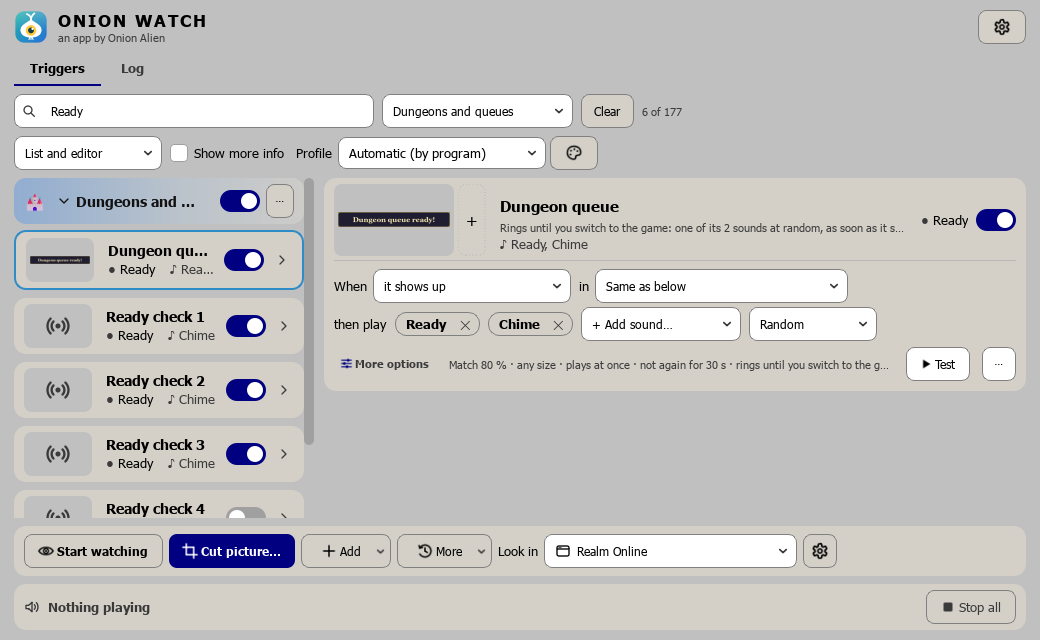
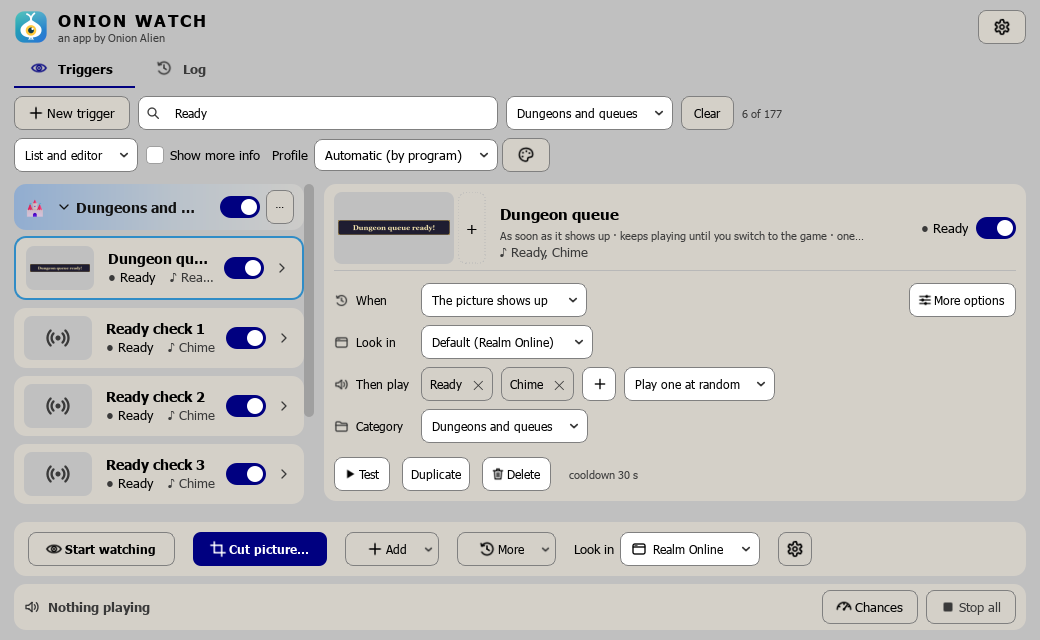
Docs: fresh README and website pictures from current main
The pictures showed the old trigger editor. Re-rendered with scripts/docs.py.
The cut-picture and health-bar dialogs now have a taller minimum (wrapped
hint text), which left grey bands around the game picture at 900 wide:
screenshots.py widens them until the picture fills its space.

diff --git a/docs/index.html b/docs/index.html
@@ -7,7 +7,7 @@
 <meta name="description" content="Free Windows app that plays a sound when something shows up in your game: a rare spawn, a queue pop, a whisper, YOU DIED. It watches the game's own window, even while you're alt-tabbed away, and never touches the game.">
 <meta property="og:title" content="Onion Watch: a sound when your game needs you">
 <meta property="og:description" content="Plays a sound when a rare spawn, a queue pop or a whisper shows up in your game, even while you're alt-tabbed. Free, Windows, it only looks.">
-<meta property="og:image" content="https://onion-alien.github.io/onion-watch/art/social-preview.png?v=2ae39d7e">
+<meta property="og:image" content="https://onion-alien.github.io/onion-watch/art/social-preview.png?v=e6040463">
 <meta property="og:type" content="website">
 <meta name="twitter:card" content="summary_large_image">
 <link rel="canonical" href="https://onion-alien.github.io/onion-watch/">
@@ -70,7 +70,7 @@
       <a href="https://www.virustotal.com/gui/file/08de1d443d172d34d1102800208f2cb0123223dac3adba19784f68c7414afb87">VirusTotal: 67 of 67 clean</a> ·
       <a href="https://github.com/Onion-Alien/onion-watch/releases/latest">what's new</a></p>
     <!-- /release -->
-    <img class="hero" src="screenshots/main.png?v=9ef68566" width="900" height="820"
+    <img class="hero" src="screenshots/main.png?v=0aa481d7" width="900" height="820"
          alt="Onion Watch watching a game, one trigger open">
   </header>
 
@@ -87,9 +87,9 @@
   <h2>A closer look</h2>
   <div class="grid shots">
     <figure><img src="screenshots/window-picker.png?v=c1530a72" alt="Picking the windows to watch" loading="lazy"><figcaption>Pick the windows, or every copy of a game</figcaption></figure>
-    <figure><img src="screenshots/cut-picture.png?v=e74729da" alt="Cutting a picture out of the game" loading="lazy"><figcaption>Cut out the thing to watch for</figcaption></figure>
-    <figure><img src="screenshots/health-bar.png?v=4ee7c359" alt="Picking a health bar and its colour" loading="lazy"><figcaption>Or point it at a health bar</figcaption></figure>
-    <figure><img src="screenshots/categories.png?v=a76fe151" alt="Categories and profiles" loading="lazy"><figcaption>Hundreds of triggers in categories and profiles</figcaption></figure>
+    <figure><img src="screenshots/cut-picture.png?v=f1990b26" alt="Cutting a picture out of the game" loading="lazy"><figcaption>Cut out the thing to watch for</figcaption></figure>
+    <figure><img src="screenshots/health-bar.png?v=21bb09ba" alt="Picking a health bar and its colour" loading="lazy"><figcaption>Or point it at a health bar</figcaption></figure>
+    <figure><img src="screenshots/categories.png?v=5544963f" alt="Categories and profiles" loading="lazy"><figcaption>Hundreds of triggers in categories and profiles</figcaption></figure>
   </div>
 
   <h2>Get started</h2>

diff --git a/scripts/screenshots.py b/scripts/screenshots.py
@@ -50,6 +50,18 @@ sounddevice.OutputStream = _Mute
 HP_BAR = QRectF(78, 32, 190, 14)     # the player's health bar in game_scene
 
 
+
+def fill_view(dlg, app):
+    """Widen a cutting dialog until its picture fills the view: the dialog has a
+    minimum height, and a 900-wide one would show grey bands above and below."""
+    dlg.resize(900, 1)
+    app.processEvents()
+    v = dlg.view
+    fit = v.img.size().scaled(v.size(), Qt.KeepAspectRatio)
+    extra = round((v.height() - fit.height()) * v.img.width() / v.img.height())
+    if extra > 0:
+        dlg.resize(dlg.width() + extra, dlg.height())
+
 def game_scene(w: int, h: int, seed: int = 0, plate: str = "", banner: str = "",
                whisper: str = "", hp: float = 1.0) -> QImage:
     """A made-up fantasy MMO frame: sky, hills, a health bar (`hp` full), maybe a
@@ -252,8 +264,8 @@ def main(out: Path):
     snip = SnipDialog(rare, "Realm Online (copy 2)", win)
     snip.view.selection = QRect(int(w * 0.36), int(h * 0.36), 300, 34)
     snip._update()
-    snip.resize(900, 640)
     snip.show()
+    fill_view(snip, app)
     app.processEvents()
     snip.grab().save(str(out / "cut-picture.png"))
     snip.close()
@@ -262,8 +274,8 @@ def main(out: Path):
     from onionwatch.ui.snip import AreaDialog
     hurt = game_scene(w, h, 3, hp=0.55)
     area = AreaDialog(hurt, "Realm Online", bar, "#c62828", win)
-    area.resize(900, 640)
     area.show()
+    fill_view(area, app)
     app.processEvents()
     area.grab().save(str(out / "health-bar.png"))
     area.close()

diff --git a/README.md b/README.md
@@ -19,13 +19,13 @@ Version **0.9.6** · Windows 10 / 11 · free, no account, no internet needed ·
 [VirusTotal: 67 of 67 clean](https://www.virustotal.com/gui/file/08de1d443d172d34d1102800208f2cb0123223dac3adba19784f68c7414afb87) · [what's new](https://github.com/Onion-Alien/onion-watch/releases/latest)
 <!-- /release -->
 
-![Onion Watch watching a game, one trigger open](docs/screenshots/main.png?v=9ef68566)
+![Onion Watch watching a game, one trigger open](docs/screenshots/main.png?v=0aa481d7)
 
 | | |
 |---|---|
-| ![The window picker](docs/screenshots/window-picker.png?v=c1530a72) | ![Cutting a picture from a window](docs/screenshots/cut-picture.png?v=e74729da) |
+| ![The window picker](docs/screenshots/window-picker.png?v=c1530a72) | ![Cutting a picture from a window](docs/screenshots/cut-picture.png?v=f1990b26) |
 | Pick the windows, or every copy of a game | Cut the thing to watch for straight out of the game |
-| ![Picking a health bar and its colour](docs/screenshots/health-bar.png?v=4ee7c359) | ![Categories and profiles](docs/screenshots/categories.png?v=a76fe151) |
+| ![Picking a health bar and its colour](docs/screenshots/health-bar.png?v=21bb09ba) | ![Categories and profiles](docs/screenshots/categories.png?v=5544963f) |
 | Or point it at a health bar | Hundreds of triggers in categories and profiles |
 
 ## It only looks
